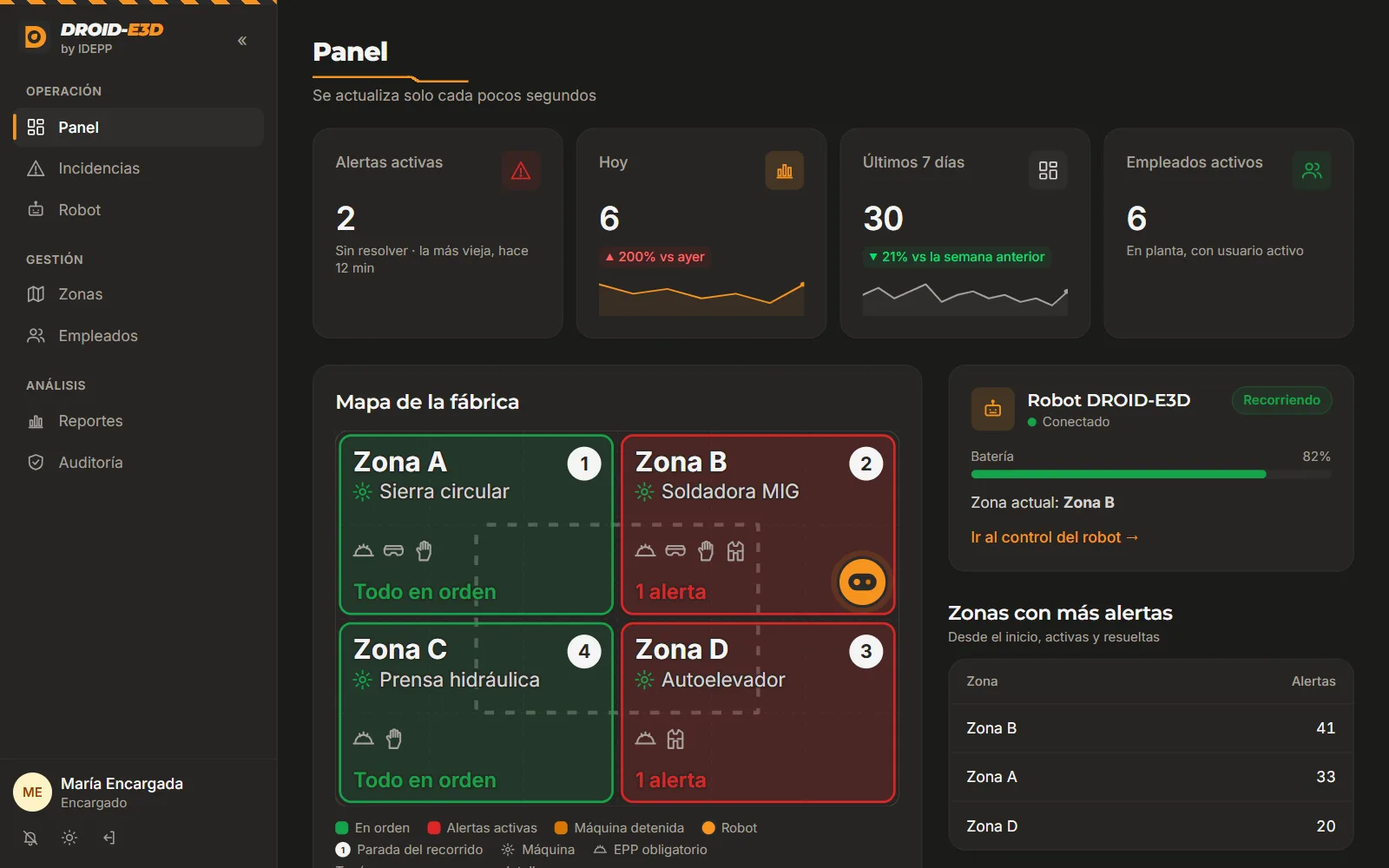
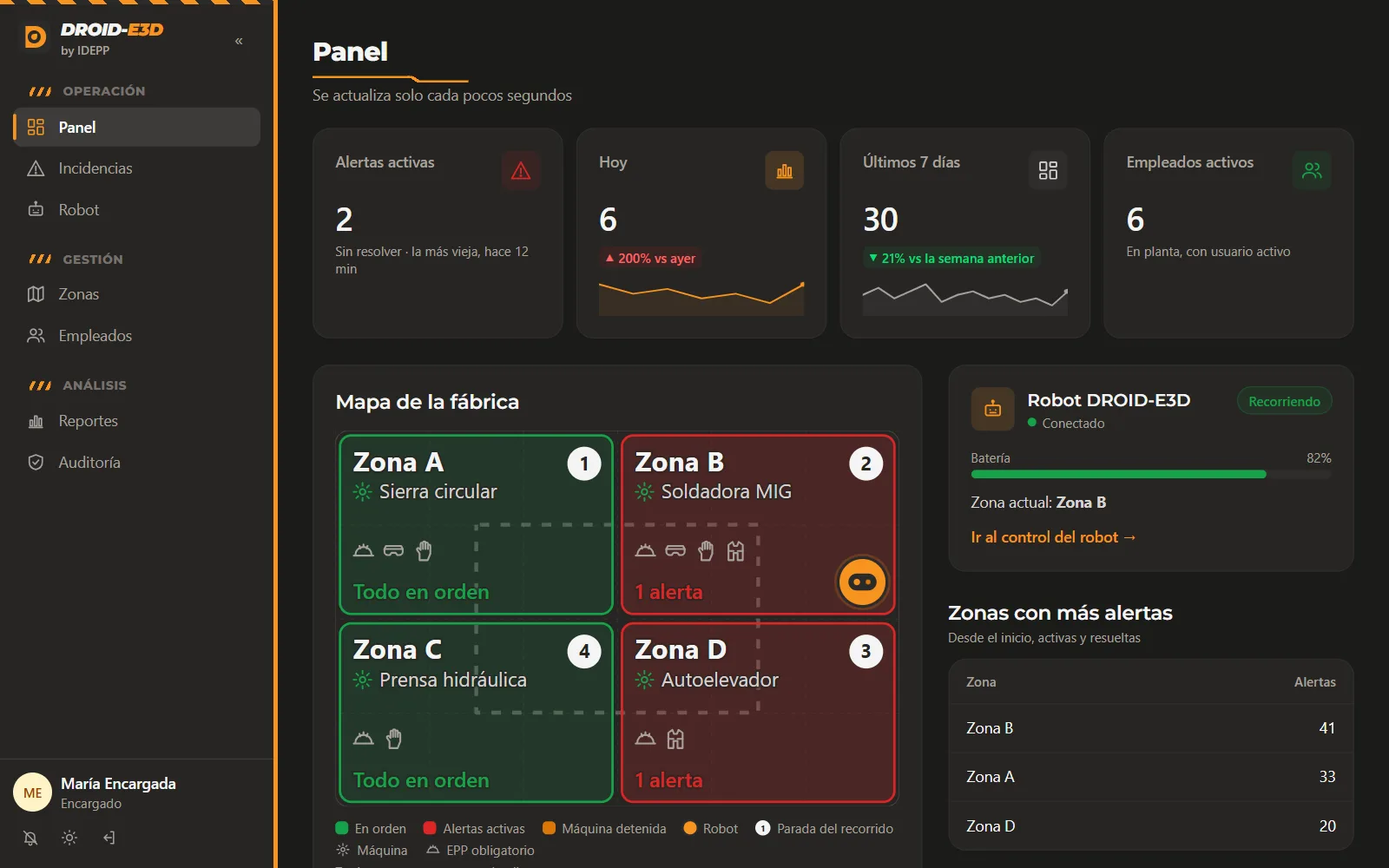
web: más elementos de la caja (robot en la portada, rayas ///, franja oscura, menú lateral oscuro)
Solo diseño: portada con el robot sobre un círculo naranja y la franja oscura de
beneficios, login con panel oscuro, menú lateral oscuro como el costado de la caja,
números de los pasos naranjas e inclinados, botones con sombra naranja, pie oscuro
y capturas de la página pública actualizadas.

diff --git a/src/SMAT/frontend/src/components/publico/Bloques.jsx b/src/SMAT/frontend/src/components/publico/Bloques.jsx
@@ -3,21 +3,29 @@
 import { Link } from 'react-router-dom'
 import Icono from '../Icono.jsx'
 
-export const botonOscuro = 'inline-flex items-center justify-center gap-2 rounded-xl bg-zinc-900 px-5 py-3 text-sm font-semibold text-white shadow-sm transition hover:bg-zinc-700 dark:bg-white dark:text-zinc-900 dark:hover:bg-zinc-200'
+export const botonOscuro = 'sombra-marca inline-flex items-center justify-center gap-2 rounded-xl bg-tinta px-5 py-3 text-sm font-semibold text-white transition hover:-translate-y-0.5 dark:bg-white dark:text-zinc-900'
 export const botonClaro = 'inline-flex items-center justify-center gap-2 rounded-xl border border-zinc-300 bg-white px-5 py-3 text-sm font-semibold text-zinc-800 transition hover:bg-zinc-50 dark:border-zinc-700 dark:bg-zinc-900 dark:text-zinc-100 dark:hover:bg-zinc-800'
 
-// Texto chico arriba de un título (ej. "CÓMO FUNCIONA")
+// Texto chico arriba de un título (ej. "CÓMO FUNCIONA"), con las rayas /// de la caja
 export function Antetitulo({ children }) {
-  return <p className="text-xs font-bold tracking-[0.18em] text-marca-oscuro uppercase dark:text-marca">{children}</p>
+  return (
+    <p className="flex items-center gap-2.5 font-titulo text-xs font-extrabold tracking-[0.18em] text-marca-oscuro uppercase dark:text-marca">
+      <span className="rayas-marca" aria-hidden="true" />{children}
+    </p>
+  )
 }
 
 // Primer bloque de cada página interna (Planes, Nosotros...)
 export function EncabezadoPagina({ antetitulo, titulo, children }) {
   return (
-    <section className="border-b border-zinc-200/70 bg-zinc-50 dark:border-zinc-800 dark:bg-zinc-900/40">
-      <div className="mx-auto max-w-6xl px-4 py-14 md:px-8 md:py-20">
+    <section className="textura-rayas relative overflow-hidden border-b border-zinc-200/70 bg-crema-oscuro dark:border-zinc-800 dark:bg-zinc-900/40">
+      {/* franja oscura a la izquierda, como el costado de la caja */}
+      <div aria-hidden="true" className="absolute inset-y-0 left-0 w-2 bg-tinta md:w-3" />
+      <span aria-hidden="true" className="rayas-marca-grande absolute right-8 bottom-8 hidden opacity-90 md:block" />
+      <div className="relative mx-auto max-w-6xl px-6 py-14 md:px-8 md:py-20">
         <Antetitulo>{antetitulo}</Antetitulo>
-        <h1 className="mt-3 max-w-3xl text-4xl font-bold tracking-tight text-balance md:text-5xl">{titulo}</h1>
+        <h1 className="mt-3 max-w-3xl text-4xl font-extrabold tracking-tight text-balance md:text-5xl">{titulo}</h1>
+        <div className="trazo-marca mt-4" aria-hidden="true" />
         {children && <p className="mt-4 max-w-2xl text-lg text-zinc-600 text-pretty dark:text-zinc-300">{children}</p>}
       </div>
     </section>
@@ -26,10 +34,11 @@ export function EncabezadoPagina({ antetitulo, titulo, children }) {
 
 export function Seccion({ antetitulo, titulo, descripcion, children, gris = false }) {
   return (
-    <section className={gris ? 'bg-zinc-50 dark:bg-zinc-900/40' : ''}>
+    <section className={gris ? 'textura-rayas bg-crema-oscuro dark:bg-zinc-900/40' : ''}>
       <div className="mx-auto max-w-6xl px-4 py-16 md:px-8 md:py-20">
         {antetitulo && <Antetitulo>{antetitulo}</Antetitulo>}
-        {titulo && <h2 className="mt-3 max-w-3xl text-3xl font-bold tracking-tight text-balance">{titulo}</h2>}
+        {titulo && <h2 className="mt-3 max-w-3xl text-3xl font-extrabold tracking-tight text-balance">{titulo}</h2>}
+        {titulo && <div className="trazo-marca mt-3" aria-hidden="true" />}
         {descripcion && <p className="mt-3 max-w-2xl text-zinc-600 text-pretty dark:text-zinc-300">{descripcion}</p>}
         <div className={titulo || descripcion ? 'mt-10' : ''}>{children}</div>
       </div>
@@ -39,9 +48,11 @@ export function Seccion({ antetitulo, titulo, descripcion, children, gris = fals
 
 export function Caracteristica({ icono, titulo, children }) {
   return (
-    <div className="rounded-2xl border border-zinc-200/80 bg-white p-6 shadow-xs dark:border-zinc-800 dark:bg-zinc-900">
-      <span className="grid size-11 place-items-center rounded-xl bg-marca/15 text-marca-oscuro dark:text-marca"><Icono nombre={icono} /></span>
-      <h3 className="mt-4 font-semibold">{titulo}</h3>
+    <div className="group relative overflow-hidden rounded-2xl border border-zinc-200/80 bg-white p-6 shadow-xs transition hover:-translate-y-1 hover:shadow-lg dark:border-zinc-800 dark:bg-zinc-900">
+      {/* línea naranja que aparece arriba al pasar el mouse */}
+      <span aria-hidden="true" className="absolute inset-x-0 top-0 h-1 origin-left scale-x-0 bg-marca transition-transform duration-300 group-hover:scale-x-100" />
+      <span className="grid size-11 place-items-center rounded-xl bg-tinta text-marca shadow-[3px_3px_0_var(--color-marca)] dark:bg-zinc-800"><Icono nombre={icono} /></span>
+      <h3 className="mt-5 font-bold">{titulo}</h3>
       <p className="mt-1.5 text-sm text-zinc-600 dark:text-zinc-400">{children}</p>
     </div>
   )
@@ -51,14 +62,18 @@ export function Caracteristica({ icono, titulo, children }) {
 export function LlamadoDemo() {
   return (
     <section className="px-4 pb-16 md:px-8">
-      <div className="relative mx-auto max-w-6xl overflow-hidden rounded-3xl bg-tinta px-6 py-12 text-white md:px-12">
+      <div className="relative mx-auto max-w-6xl overflow-hidden rounded-3xl bg-tinta px-6 py-12 text-white md:px-12 md:pr-72">
         <div aria-hidden="true" className="absolute inset-x-0 top-0 h-1.5 franja-marca" />
-        <div className="flex flex-col items-start justify-between gap-6 md:flex-row md:items-center">
+        {/* el robot asomándose a la derecha, sobre un círculo naranja */}
+        <div aria-hidden="true" className="absolute -right-10 -bottom-24 hidden size-80 rounded-full bg-marca/90 md:block" />
+        <img src="/robot-droid.webp" alt="" aria-hidden="true" className="absolute right-6 -bottom-6 hidden w-56 md:block" />
+        <div className="relative flex flex-col items-start justify-between gap-6 md:flex-row md:items-center">
           <div>
-            <h2 className="text-2xl font-bold tracking-tight md:text-3xl">¿Querés verlo funcionando en tu planta?</h2>
+            <span className="rayas-marca mb-3" aria-hidden="true" />
+            <h2 className="text-2xl font-extrabold tracking-tight md:text-3xl">¿Querés verlo funcionando en tu planta?</h2>
             <p className="mt-2 max-w-xl text-zinc-300">Te mostramos el robot, la alerta con foto y la parada de máquina en una demo de 20 minutos.</p>
           </div>
-          <Link to="/contacto" className="inline-flex shrink-0 items-center gap-2 rounded-xl bg-marca px-5 py-3 text-sm font-bold text-tinta hover:bg-marca-oscuro">
+          <Link to="/contacto" className="inline-flex shrink-0 items-center gap-2 rounded-xl bg-marca px-5 py-3 text-sm font-bold text-tinta shadow-[4px_4px_0_#fff] transition hover:-translate-y-0.5">
             Pedir una demo <Icono nombre="flecha" className="size-4" />
           </Link>
         </div>

diff --git a/src/SMAT/frontend/src/pages/publico/InicioPublico.jsx b/src/SMAT/frontend/src/pages/publico/InicioPublico.jsx
@@ -29,25 +29,59 @@ export default function InicioPublico() {
 
   return (
     <>
-      <section className="relative overflow-hidden">
-        <div aria-hidden="true" className="absolute inset-0 -z-10 bg-[radial-gradient(60%_50%_at_50%_0%,rgba(245,184,0,0.18),transparent)]" />
-        <div className="mx-auto max-w-6xl px-4 pt-16 pb-10 text-center md:px-8 md:pt-24">
-          <p className="mx-auto inline-flex items-center gap-2 rounded-full border border-zinc-200 bg-white px-3 py-1 text-xs font-medium text-zinc-600 dark:border-zinc-800 dark:bg-zinc-900 dark:text-zinc-300">
-            <span className="size-2 shrink-0 rounded-full bg-ok" /> Detecta casco, guantes, lentes y chaleco
-          </p>
-          <h1 className="mx-auto mt-6 max-w-4xl text-5xl font-extrabold tracking-tight text-balance md:text-6xl">
-            Seguridad que <span className="text-marca-oscuro dark:text-marca">recorre la planta</span>
-          </h1>
-          <p className="mx-auto mt-5 max-w-2xl text-lg text-zinc-600 text-pretty dark:text-zinc-300">
-            DROID-E3D es un robot que recorre la fábrica, detecta con inteligencia artificial a quien trabaja sin su equipo
-            de protección, avisa al instante y detiene la máquina de esa zona.
-          </p>
-          <div className="mt-8 flex flex-col justify-center gap-3 sm:flex-row">
-            <Link to="/contacto" className={botonOscuro}>Pedir una demo <Icono nombre="flecha" className="size-4" /></Link>
-            <Link to="/como-funciona" className={botonClaro}>Ver cómo funciona</Link>
+      <section className="textura-rayas relative overflow-hidden">
+        <div className="relative">
+        {/* franja oscura a la izquierda, como el costado de la caja */}
+        <div aria-hidden="true" className="absolute inset-y-0 left-0 hidden w-4 bg-tinta lg:block" />
+        {/* línea naranja con quiebre que cruza la portada, como en la caja */}
+        <svg aria-hidden="true" className="absolute top-[13%] left-0 hidden h-6 w-full lg:block" viewBox="0 0 1000 24" preserveAspectRatio="none">
+          <path d="M0 3H560L590 21H1000" fill="none" stroke="var(--color-marca)" strokeWidth="2.5" vectorEffect="non-scaling-stroke" />
+        </svg>
+        <div className="relative mx-auto grid max-w-6xl items-center gap-8 px-6 pt-12 pb-10 md:px-8 lg:grid-cols-[1.15fr_1fr] lg:pt-20">
+          <div className="text-center lg:text-left">
+            <p className="inline-flex items-center gap-2 rounded-full border border-zinc-200 bg-white px-3 py-1 text-xs font-medium text-zinc-600 dark:border-zinc-800 dark:bg-zinc-900 dark:text-zinc-300">
+              <span className="size-2 shrink-0 rounded-full bg-ok" /> Detecta casco, guantes, lentes y chaleco
+            </p>
+            {/* el nombre grande e inclinado, como en la caja */}
+            <p aria-hidden="true" className="mt-6 flex items-center justify-center gap-3 font-titulo text-2xl font-black tracking-tight italic lg:justify-start">
+              DROID-<span className="-ml-3 text-marca">E3D</span><span className="rayas-marca" />
+            </p>
+            <h1 className="mt-2 text-5xl font-extrabold tracking-tight text-balance md:text-6xl">
+              Seguridad que <span className="text-marca-oscuro dark:text-marca">recorre la planta</span>
+            </h1>
+            <p className="mt-5 max-w-xl text-lg text-zinc-600 text-pretty max-lg:mx-auto dark:text-zinc-300">
+              DROID-E3D es un robot que recorre la fábrica, detecta con inteligencia artificial a quien trabaja sin su equipo
+              de protección, avisa al instante y detiene la máquina de esa zona.
+            </p>
+            <div className="mt-8 flex flex-col justify-center gap-4 sm:flex-row lg:justify-start">
+              <Link to="/contacto" className={botonOscuro}>Pedir una demo <Icono nombre="flecha" className="size-4" /></Link>
+              <Link to="/como-funciona" className={botonClaro}>Ver cómo funciona</Link>
+            </div>
+          </div>
+          {/* el robot, sobre un círculo naranja con las rayas de la caja */}
+          <div aria-hidden="true" className="relative mx-auto aspect-square w-72 sm:w-80 lg:w-full lg:max-w-md">
+            <div className="absolute inset-[8%] rounded-full bg-marca" />
+            <div className="absolute inset-[8%] rounded-full bg-[repeating-linear-gradient(115deg,transparent_0_18px,rgb(255_255_255/0.18)_18px_30px)]" />
+            <span className="rayas-marca-grande absolute -top-1 right-0" />
+            <img src="/robot-droid.webp" alt="" width="540" height="640" className="relative mx-auto h-full w-auto drop-shadow-[0_18px_24px_rgb(0_0_0/0.25)]" />
           </div>
         </div>
-        <div className="mx-auto max-w-5xl px-4 pb-16 md:px-8">
+
+        </div>
+
+        {/* franja oscura de abajo, como la base de la caja, con los beneficios principales */}
+        <div className="relative border-t-4 border-marca bg-tinta text-white">
+          <ul className="mx-auto grid max-w-6xl grid-cols-2 gap-x-6 gap-y-5 px-6 py-7 md:px-8 lg:grid-cols-4">
+            {BENEFICIOS.slice(0, 4).map((b) => (
+              <li key={b.titulo} className="flex items-center gap-3">
+                <span className="grid size-10 shrink-0 place-items-center rounded-lg border border-white/15 text-marca"><Icono nombre={b.icono} /></span>
+                <span className="font-titulo text-sm font-bold">{b.titulo}</span>
+              </li>
+            ))}
+          </ul>
+        </div>
+
+        <div className="mx-auto max-w-5xl px-4 pt-14 pb-16 md:px-8">
           <Captura nombre="panel" alt="Panel del encargado con las alertas del día, el mapa de la fábrica y el estado del robot" />
         </div>
       </section>
@@ -77,11 +111,12 @@ export default function InicioPublico() {
         <div className="grid items-center gap-10 lg:grid-cols-2">
           <div>
             <Antetitulo>Para cada persona de la planta</Antetitulo>
-            <h2 className="mt-3 text-3xl font-bold tracking-tight">Cada uno ve lo que necesita</h2>
-            <dl className="mt-8 space-y-5">
+            <h2 className="mt-3 text-3xl font-extrabold tracking-tight">Cada uno ve lo que necesita</h2>
+            <div className="trazo-marca mt-3" aria-hidden="true" />
+            <dl className="mt-8 space-y-4">
               {PARA_QUIEN.map((p) => (
-                <div key={p.rol} className="border-l-2 border-marca pl-4">
-                  <dt className="text-sm font-semibold">{p.rol}</dt>
+                <div key={p.rol} className="rounded-r-xl border-l-4 border-marca bg-white/70 py-3 pr-4 pl-4 dark:bg-zinc-900/60">
+                  <dt className="font-titulo text-sm font-extrabold">{p.rol}</dt>
                   <dd className="mt-0.5 text-zinc-600 dark:text-zinc-300">«{p.frase}»</dd>
                 </div>
               ))}

diff --git a/src/SMAT/frontend/src/components/BarraLateral.jsx b/src/SMAT/frontend/src/components/BarraLateral.jsx
@@ -11,7 +11,7 @@ import Icono from './Icono.jsx'
 import Logo from './Logo.jsx'
 
 const leerColapsado = () => { try { return localStorage.getItem('menu-colapsado') === '1' } catch { return false } }
-const iconoChico = 'grid size-8 shrink-0 place-items-center rounded-lg text-zinc-500 hover:bg-zinc-100 hover:text-zinc-900 dark:text-zinc-400 dark:hover:bg-zinc-800 dark:hover:text-white'
+const iconoChico = 'grid size-8 shrink-0 place-items-center rounded-lg text-zinc-400 hover:bg-white/10 hover:text-white'
 
 export default function BarraLateral() {
   const { usuario, cerrarSesion } = useAuth()
@@ -25,7 +25,7 @@ export default function BarraLateral() {
   }
 
   return (
-    <aside className={`sticky top-0 hidden h-dvh shrink-0 flex-col border-r border-zinc-200/80 bg-white transition-[width] duration-200 md:flex dark:border-zinc-800 dark:bg-zinc-900 ${colapsado ? 'w-[72px]' : 'w-64'}`}>
+    <aside className={`sticky top-0 hidden h-dvh shrink-0 flex-col border-r-4 border-marca bg-tinta text-zinc-100 transition-[width] duration-200 md:flex dark:bg-zinc-900 ${colapsado ? 'w-[72px]' : 'w-64'}`}>
       <div className="h-1 shrink-0 franja-marca" />
       <div className={`flex h-16 items-center ${colapsado ? 'justify-center' : 'justify-between px-4'}`}>
         <Link to={inicioSegunRol(usuario)} aria-label="Ir al inicio"><Logo conTexto={!colapsado} className="size-8" /></Link>
@@ -36,18 +36,18 @@ export default function BarraLateral() {
       <nav className="mt-2 flex-1 space-y-5 overflow-y-auto px-3" aria-label="Menú principal">
         {menuAgrupado(usuario).map(([grupo, items]) => (
           <div key={grupo}>
-            {!colapsado && <p className="mb-1.5 px-3 text-[11px] font-semibold tracking-wider text-zinc-400 uppercase">{grupo}</p>}
+            {!colapsado && <p className="mb-1.5 flex items-center gap-2 px-3 font-titulo text-[11px] font-extrabold tracking-wider text-zinc-500 uppercase"><span className="rayas-marca scale-75" aria-hidden="true" />{grupo}</p>}
             <ul className="space-y-0.5">
               {items.map((item) => (
                 <li key={item.ruta}>
                   <NavLink to={item.ruta} end={item.fin} title={colapsado ? item.texto : undefined} aria-label={colapsado ? item.texto : undefined}
                            className={({ isActive }) => `relative flex items-center gap-3 rounded-lg py-2 text-sm transition ${colapsado ? 'justify-center' : 'px-3'} ${
-                             isActive ? 'bg-zinc-100 font-medium text-zinc-900 dark:bg-zinc-800 dark:text-white'
-                                      : 'text-zinc-600 hover:bg-zinc-50 hover:text-zinc-900 dark:text-zinc-400 dark:hover:bg-zinc-800/60 dark:hover:text-white'}`}>
+                             isActive ? 'bg-white/10 font-semibold text-white'
+                                      : 'text-zinc-400 hover:bg-white/5 hover:text-white'}`}>
                     {({ isActive }) => (
                       <>
                         {isActive && <span className="absolute top-1.5 bottom-1.5 left-0 w-[3px] rounded-full bg-marca" />}
-                        <Icono nombre={item.icono} className="size-[18px]" />
+                        <Icono nombre={item.icono} className={`size-[18px] ${isActive ? 'text-marca' : ''}`} />
                         {!colapsado && item.texto}
                       </>
                     )}
@@ -59,13 +59,13 @@ export default function BarraLateral() {
         ))}
       </nav>
 
-      <div className="border-t border-zinc-200/80 p-3 dark:border-zinc-800">
+      <div className="border-t border-white/10 p-3">
         <div className={`flex items-center gap-2 ${colapsado ? 'flex-col' : ''}`}>
           <Avatar nombre={usuario?.nombre} />
           {!colapsado && (
             <div className="min-w-0 flex-1">
               <p className="truncate text-sm font-medium">{usuario?.nombre}</p>
-              <p className="truncate text-xs text-zinc-500 capitalize dark:text-zinc-400">{usuario?.rol}{usuario?.zona ? ` · ${usuario.zona}` : ''}</p>
+              <p className="truncate text-xs text-zinc-400 capitalize">{usuario?.rol}{usuario?.zona ? ` · ${usuario.zona}` : ''}</p>
             </div>
           )}
         </div>

diff --git a/src/SMAT/frontend/src/pages/Login.jsx b/src/SMAT/frontend/src/pages/Login.jsx
@@ -43,7 +43,23 @@ export default function Login() {
   }
 
   return (
-    <div className="relative grid min-h-dvh place-items-center bg-[radial-gradient(circle_at_top,rgba(245,184,0,0.10),transparent_45%)] p-4">
+    <div className="grid min-h-dvh lg:grid-cols-[1fr_1.1fr]">
+      {/* Panel de la marca (solo en pantallas grandes): oscuro, con el robot, como la caja */}
+      <div aria-hidden="true" className="relative hidden overflow-hidden border-r-4 border-marca bg-tinta text-white lg:flex lg:flex-col lg:justify-between lg:p-12">
+        <div className="absolute inset-x-0 top-0 h-1.5 franja-marca" />
+        <div>
+          <p className="font-titulo text-4xl font-black tracking-tight italic">DROID-<span className="text-marca">E3D</span></p>
+          <p className="mt-2 font-titulo text-xs font-bold tracking-[0.3em] text-zinc-400 uppercase">by IDEPP · Todo para el trabajador</p>
+          <span className="rayas-marca-grande mt-6" />
+        </div>
+        <div className="relative mx-auto w-full max-w-sm">
+          <div className="absolute inset-x-6 bottom-0 aspect-square rounded-full bg-marca" />
+          <img src="/robot-droid.webp" alt="" className="relative mx-auto w-4/5 drop-shadow-[0_18px_24px_rgb(0_0_0/0.35)]" />
+        </div>
+        <p className="font-titulo text-lg font-extrabold">Seguridad que <span className="text-marca">recorre la planta</span></p>
+      </div>
+
+      <div className="textura-rayas relative grid place-items-center p-4">
       <button type="button" onClick={cambiarTema} aria-label="Cambiar tema"
               className="absolute top-4 right-4 grid size-10 place-items-center rounded-lg text-zinc-500 hover:bg-zinc-200 dark:hover:bg-zinc-800">
         <Icono nombre={oscuro ? 'sol' : 'luna'} />
@@ -53,7 +69,8 @@ export default function Login() {
         <div className="mb-6 flex flex-col items-center gap-3 text-center">
           <Logo conTexto={false} className="size-12" />
           <div>
-            <h1 className="text-2xl font-semibold tracking-tight">Ingresá a DROID-E3D</h1>
+            <h1 className="text-2xl font-extrabold tracking-tight">Ingresá a DROID-E3D</h1>
+            <div className="trazo-marca mx-auto mt-2" aria-hidden="true" />
             <p className="mt-1 text-sm text-zinc-500 dark:text-zinc-400">Control de elementos de protección personal</p>
           </div>
         </div>
@@ -71,7 +88,7 @@ export default function Login() {
 
           {error && <p role="alert" className={mensajeError}>{error}</p>}
 
-          <button type="submit" disabled={cargando} className={`${botonPrimario} w-full py-2.5`}>
+          <button type="submit" disabled={cargando} className={`${botonPrimario} sombra-marca w-full py-2.5`}>
             {cargando ? 'Ingresando…' : 'Ingresar'}
           </button>
         </form>
@@ -79,6 +96,7 @@ export default function Login() {
           <Link to="/" className="font-medium hover:text-zinc-900 hover:underline dark:hover:text-white">← Conocé DROID-E3D</Link>
           <span className="mx-2">·</span>DROID-E3D by IDEPP
         </p>
+      </div>
       </div>
     </div>
   )

diff --git a/src/SMAT/frontend/src/components/publico/LayoutPublico.jsx b/src/SMAT/frontend/src/components/publico/LayoutPublico.jsx
@@ -6,29 +6,30 @@ import EncabezadoPublico, { SECCIONES } from './EncabezadoPublico.jsx'
 
 function Pie() {
   return (
-    <footer className="border-t border-zinc-200/70 bg-crema dark:border-zinc-800 dark:bg-zinc-950">
+    <footer className="relative border-t-4 border-marca bg-tinta text-zinc-100 dark:bg-zinc-950">
+      <span aria-hidden="true" className="rayas-marca-grande absolute top-8 right-6 hidden opacity-90 md:block" />
       <div className="mx-auto grid max-w-6xl gap-8 px-4 py-10 md:grid-cols-[2fr_1fr_1fr] md:px-8">
         <div>
           <Logo className="size-9" />
-          <p className="mt-3 max-w-xs text-sm text-zinc-500 dark:text-zinc-400">
+          <p className="mt-3 max-w-xs text-sm text-zinc-400">
             Seguridad que recorre la planta. Un producto de IDEPP.
           </p>
         </div>
         <div>
-          <p className="text-sm font-semibold">Producto</p>
-          <ul className="mt-3 space-y-2 text-sm text-zinc-500 dark:text-zinc-400">
-            {SECCIONES.map((s) => <li key={s.ruta}><Link to={s.ruta} className="hover:text-zinc-900 dark:hover:text-white">{s.texto}</Link></li>)}
+          <p className="font-titulo text-sm font-extrabold text-marca">Producto</p>
+          <ul className="mt-3 space-y-2 text-sm text-zinc-400">
+            {SECCIONES.map((s) => <li key={s.ruta}><Link to={s.ruta} className="hover:text-white">{s.texto}</Link></li>)}
           </ul>
         </div>
         <div>
-          <p className="text-sm font-semibold">Clientes</p>
-          <ul className="mt-3 space-y-2 text-sm text-zinc-500 dark:text-zinc-400">
-            <li><Link to="/login" className="hover:text-zinc-900 dark:hover:text-white">Ingresar a la app</Link></li>
-            <li><Link to="/contacto" className="hover:text-zinc-900 dark:hover:text-white">Pedir una demo</Link></li>
+          <p className="font-titulo text-sm font-extrabold text-marca">Clientes</p>
+          <ul className="mt-3 space-y-2 text-sm text-zinc-400">
+            <li><Link to="/login" className="hover:text-white">Ingresar a la app</Link></li>
+            <li><Link to="/contacto" className="hover:text-white">Pedir una demo</Link></li>
           </ul>
         </div>
       </div>
-      <p className="border-t border-zinc-200/70 px-4 py-5 text-center text-xs text-zinc-500 dark:border-zinc-800 dark:text-zinc-400">
+      <p className="border-t border-white/10 px-4 py-5 text-center text-xs text-zinc-400">
         © {new Date().getFullYear()} IDEPP · DROID-E3D by IDEPP
       </p>
     </footer>

diff --git a/src/SMAT/frontend/src/index.css b/src/SMAT/frontend/src/index.css
@@ -16,6 +16,7 @@
   --color-ok: #16a34a;           /* verde: todo en orden */
   --color-tinta: #2b2b2b;        /* texto oscuro sobre naranja (el gris oscuro de la caja) */
   --color-crema: #f4f1eb;        /* fondo de la página, como el de la caja */
+  --color-crema-oscuro: #ebe5da; /* secciones alternadas */
 
   /* Letra de los títulos: Montserrat, como la caja y el manual (se carga en index.html). El texto sigue con la letra del sistema. */
   --font-titulo: "Montserrat", "Inter", ui-sans-serif, system-ui, sans-serif;
@@ -69,6 +70,20 @@
                 linear-gradient(var(--color-marca), var(--color-marca)) 6.15rem 4px / 2.85rem 2px no-repeat,
                 linear-gradient(33deg, transparent 42%, var(--color-marca) 42% 64%, transparent 64%) 5.45rem 0 / 0.85rem 6px no-repeat;
   }
+  /* Las tres rayas inclinadas /// de la caja, en naranja */
+  .rayas-marca {
+    display: inline-block; width: 26px; height: 11px; flex: none;
+    background: repeating-linear-gradient(115deg, transparent 0 3px, var(--color-marca) 3px 7px, transparent 7px 9.5px);
+  }
+  .rayas-marca-grande {
+    display: inline-block; width: 120px; height: 46px;
+    background: repeating-linear-gradient(115deg, transparent 0 12px, var(--color-marca) 12px 28px, transparent 28px 38px);
+  }
+  /* Sombra naranja corrida, como los números de los pasos del manual */
+  .sombra-marca { box-shadow: 4px 4px 0 var(--color-marca); }
+  .sombra-marca:hover { box-shadow: 6px 6px 0 var(--color-marca); }
+  /* Textura muy suave de rayas diagonales, para fondos */
+  .textura-rayas { background-image: repeating-linear-gradient(135deg, rgb(43 43 43 / 0.035) 0 2px, transparent 2px 16px); }
   .animar-panel { animation: entrar-derecha 0.22s ease-out; }
   /* Mapa: el robot se desliza de una zona a otra y el recorrido punteado avanza */
   .robot-mapa { transition: transform 1.2s ease-in-out; }

diff --git a/src/SMAT/frontend/src/components/publico/Pasos.jsx b/src/SMAT/frontend/src/components/publico/Pasos.jsx
@@ -17,12 +17,12 @@ export default function Pasos({ detalle = false }) {
   return (
     <ol className="grid gap-4 md:grid-cols-2 lg:grid-cols-4">
       {PASOS.map((p, i) => (
-        <li key={p.titulo} className="relative rounded-2xl border border-zinc-200/80 bg-white p-6 shadow-xs dark:border-zinc-800 dark:bg-zinc-900">
+        <li key={p.titulo} className="relative rounded-2xl border border-zinc-200/80 bg-white p-6 shadow-xs transition hover:-translate-y-1 hover:shadow-lg dark:border-zinc-800 dark:bg-zinc-900">
           <div className="flex items-center justify-between">
-            <span className="grid size-11 place-items-center rounded-xl bg-tinta text-marca dark:bg-zinc-800"><Icono nombre={p.icono} /></span>
-            <span className="text-3xl font-black text-zinc-200 tabular-nums dark:text-zinc-800" aria-hidden="true">{i + 1}</span>
+            <span className="grid size-11 place-items-center rounded-xl bg-tinta text-marca shadow-[3px_3px_0_var(--color-marca)] dark:bg-zinc-800"><Icono nombre={p.icono} /></span>
+            <span className="font-titulo text-4xl font-black text-marca italic tabular-nums" aria-hidden="true">{String(i + 1).padStart(2, '0')}</span>
           </div>
-          <h3 className="mt-4 font-semibold"><span className="sr-only">Paso {i + 1}: </span>{p.titulo}</h3>
+          <h3 className="mt-4 font-bold"><span className="sr-only">Paso {i + 1}: </span>{p.titulo}</h3>
           <p className="mt-1.5 text-sm text-zinc-600 dark:text-zinc-400">{detalle ? p.detalle : p.texto}</p>
         </li>
       ))}

diff --git a/src/SMAT/frontend/src/utils/estilos.js b/src/SMAT/frontend/src/utils/estilos.js
@@ -5,7 +5,7 @@ export const campo = 'w-full rounded-lg border border-zinc-300 bg-white px-3 py-
 export const campoConError = '!border-alerta focus:!border-alerta focus:!ring-alerta/20' // el ! gana sobre el borde gris del campo
 
 const boton = 'inline-flex items-center justify-center gap-2 rounded-lg px-3.5 py-2 text-sm font-medium whitespace-nowrap transition disabled:pointer-events-none disabled:opacity-50'
-export const botonPrimario = `${boton} bg-zinc-900 text-white shadow-sm hover:bg-zinc-700 dark:bg-zinc-100 dark:text-zinc-900 dark:hover:bg-white`
+export const botonPrimario = `${boton} bg-tinta text-white shadow-[3px_3px_0_var(--color-marca)] hover:-translate-y-px hover:shadow-[4px_4px_0_var(--color-marca)] dark:bg-zinc-100 dark:text-zinc-900`
 export const botonSecundario = `${boton} border border-zinc-200 bg-white text-zinc-700 shadow-xs hover:bg-zinc-50 dark:border-zinc-700 dark:bg-zinc-900 dark:text-zinc-200 dark:hover:bg-zinc-800`
 export const botonFantasma = `${boton} text-zinc-600 hover:bg-zinc-100 hover:text-zinc-900 dark:text-zinc-300 dark:hover:bg-zinc-800 dark:hover:text-white`
 // Peligro suave (acciones en listas) y fuerte (confirmar algo que no se puede deshacer fácil)
